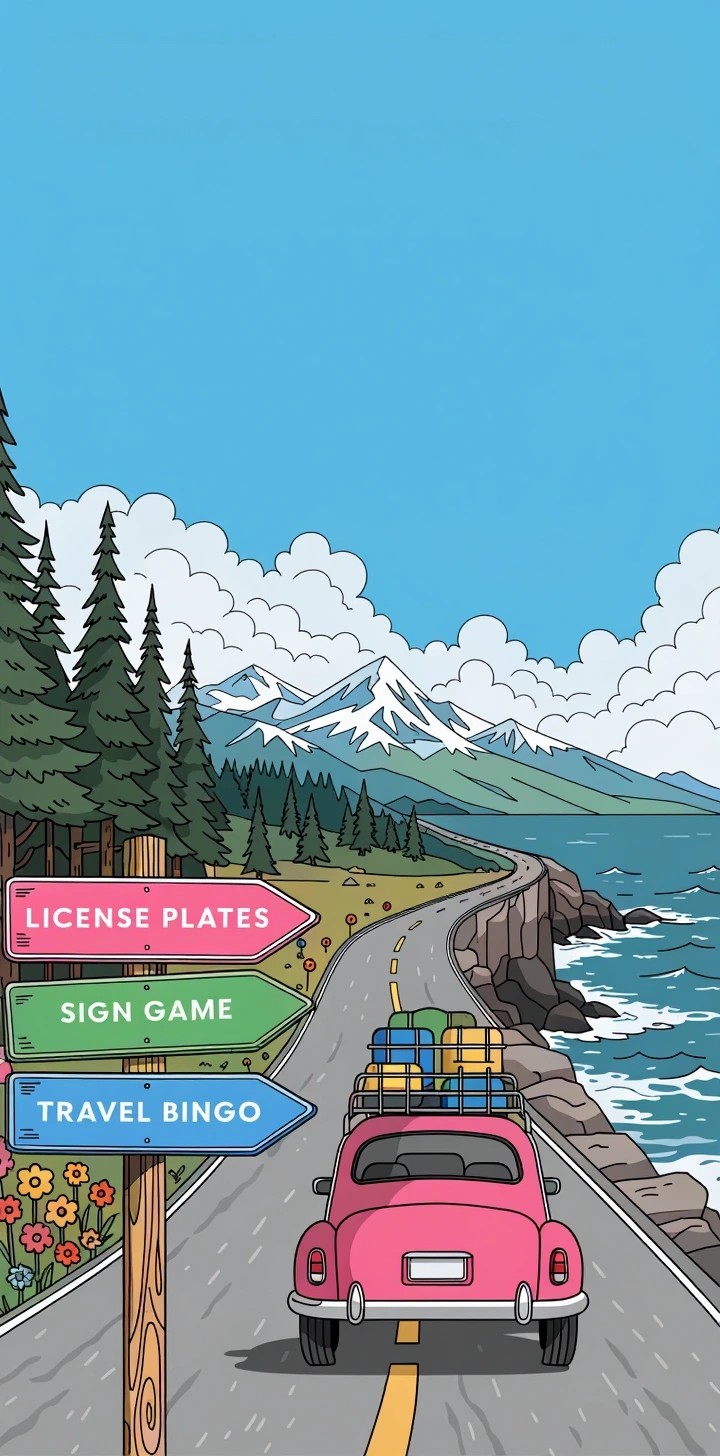
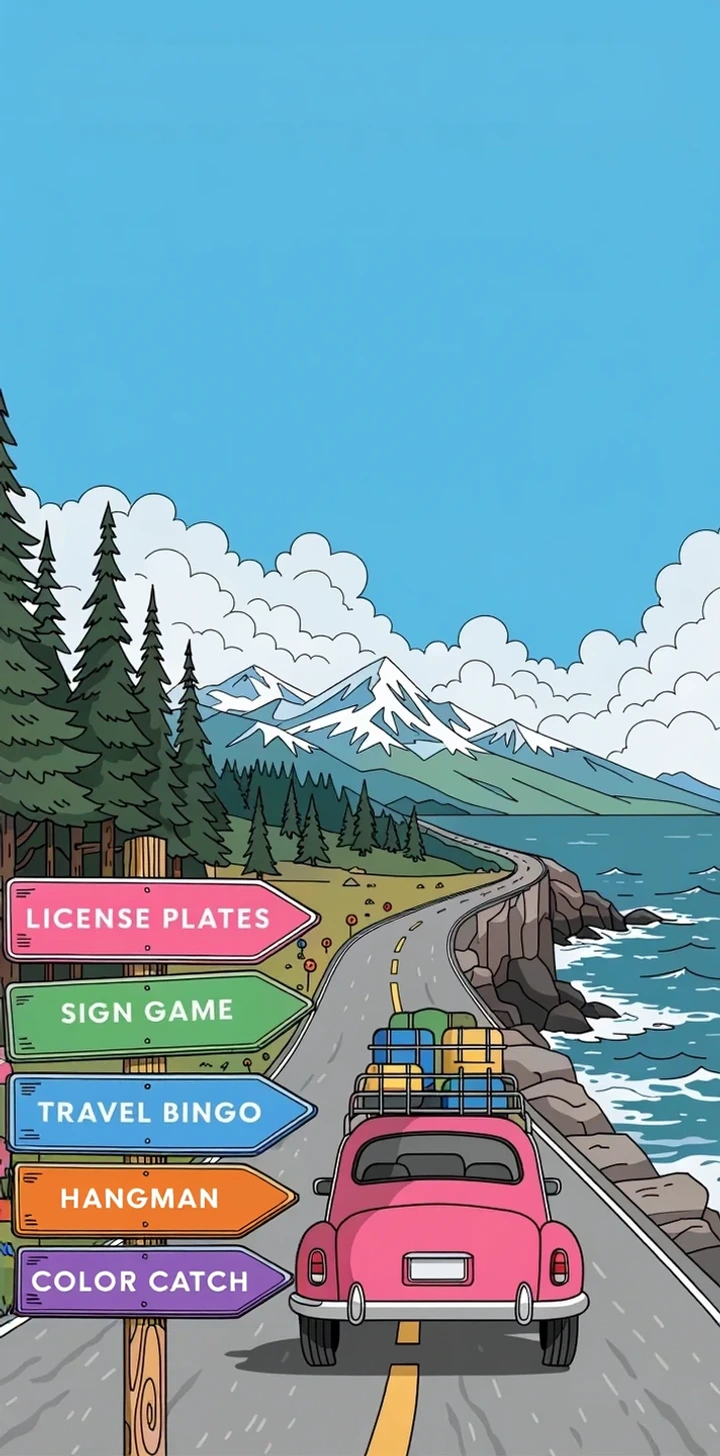
Paint Hangman and Color Catch onto the host hero so all five games are real signs instead of sticker overlays.

diff --git a/src/data/heroHotspots.ts b/src/data/heroHotspots.ts
@@ -1,6 +1,7 @@
 /**
  * Normalized tap targets on illustrated signs (measured from hero WebP art).
- * Home/host signs sit at ~60.7%, 67.1%, and 74.2% from the top (~75px tall each).
+ * Home signs sit at ~60.7%, 67.1%, and 74.2% from the top (~75px tall each).
+ * Host five-sign stack: ~60.6%, 67.1%, 74.0%, 79.9%, 86.0%.
  */
 export type HeroHotspot = {
   id: string;
@@ -9,7 +10,6 @@ export type HeroHotspot = {
   top: number;
   width: number;
   height: number;
-  overlay?: number;
 };
 
 export const homeHeroHotspots: HeroHotspot[] = [
@@ -43,43 +43,41 @@ export const hostHeroHotspots: HeroHotspot[] = [
   {
     id: 'license-plates',
     label: 'License Plates',
-    left: 0.01,
-    top: 0.607,
-    width: 0.58,
-    height: 0.048,
+    left: 0.0,
+    top: 0.606,
+    width: 0.5,
+    height: 0.05,
   },
   {
     id: 'sign-game',
     label: 'Sign Game',
-    left: 0.01,
+    left: 0.0,
     top: 0.671,
-    width: 0.55,
-    height: 0.049,
+    width: 0.5,
+    height: 0.05,
   },
   {
     id: 'bingo',
     label: 'Travel Bingo',
-    left: 0.01,
-    top: 0.742,
-    width: 0.58,
-    height: 0.045,
+    left: 0.0,
+    top: 0.74,
+    width: 0.5,
+    height: 0.05,
   },
   {
     id: 'hangman',
     label: 'Hangman',
-    left: 0.50,
-    top: 0.607,
-    width: 0.48,
-    height: 0.048,
-    overlay: require('../../assets/branding/host-sign-hangman.webp'),
+    left: 0.0,
+    top: 0.799,
+    width: 0.5,
+    height: 0.046,
   },
   {
     id: 'color-catch',
     label: 'Color Catch',
-    left: 0.50,
-    top: 0.671,
-    width: 0.48,
-    height: 0.049,
-    overlay: require('../../assets/branding/host-sign-color-catch.webp'),
+    left: 0.0,
+    top: 0.86,
+    width: 0.5,
+    height: 0.044,
   },
 ];

diff --git a/src/components/brand/HeroSignHotspots.tsx b/src/components/brand/HeroSignHotspots.tsx
@@ -1,4 +1,4 @@
-import { Image, Pressable, StyleSheet } from 'react-native';
+import { Pressable, StyleSheet } from 'react-native';
 import { homeHeroHotspots, hostHeroHotspots, type HeroHotspot } from '@/data/heroHotspots';
 
 type HeroSignHotspotsProps = {
@@ -32,11 +32,7 @@ export function HeroSignHotspots({ variant, onPress, disabled = false }: HeroSig
             },
             pressed && !disabled && styles.pressed,
           ]}
-        >
-          {spot.overlay ? (
-            <Image source={spot.overlay} style={styles.overlay} resizeMode="contain" />
-          ) : null}
-        </Pressable>
+        />
       ))}
     </>
   );
@@ -45,10 +41,6 @@ export function HeroSignHotspots({ variant, onPress, disabled = false }: HeroSig
 const styles = StyleSheet.create({
   hit: {
     position: 'absolute',
-  },
-  overlay: {
-    width: '100%',
-    height: '100%',
   },
   pressed: {
     backgroundColor: 'rgba(255, 255, 255, 0.18)',
